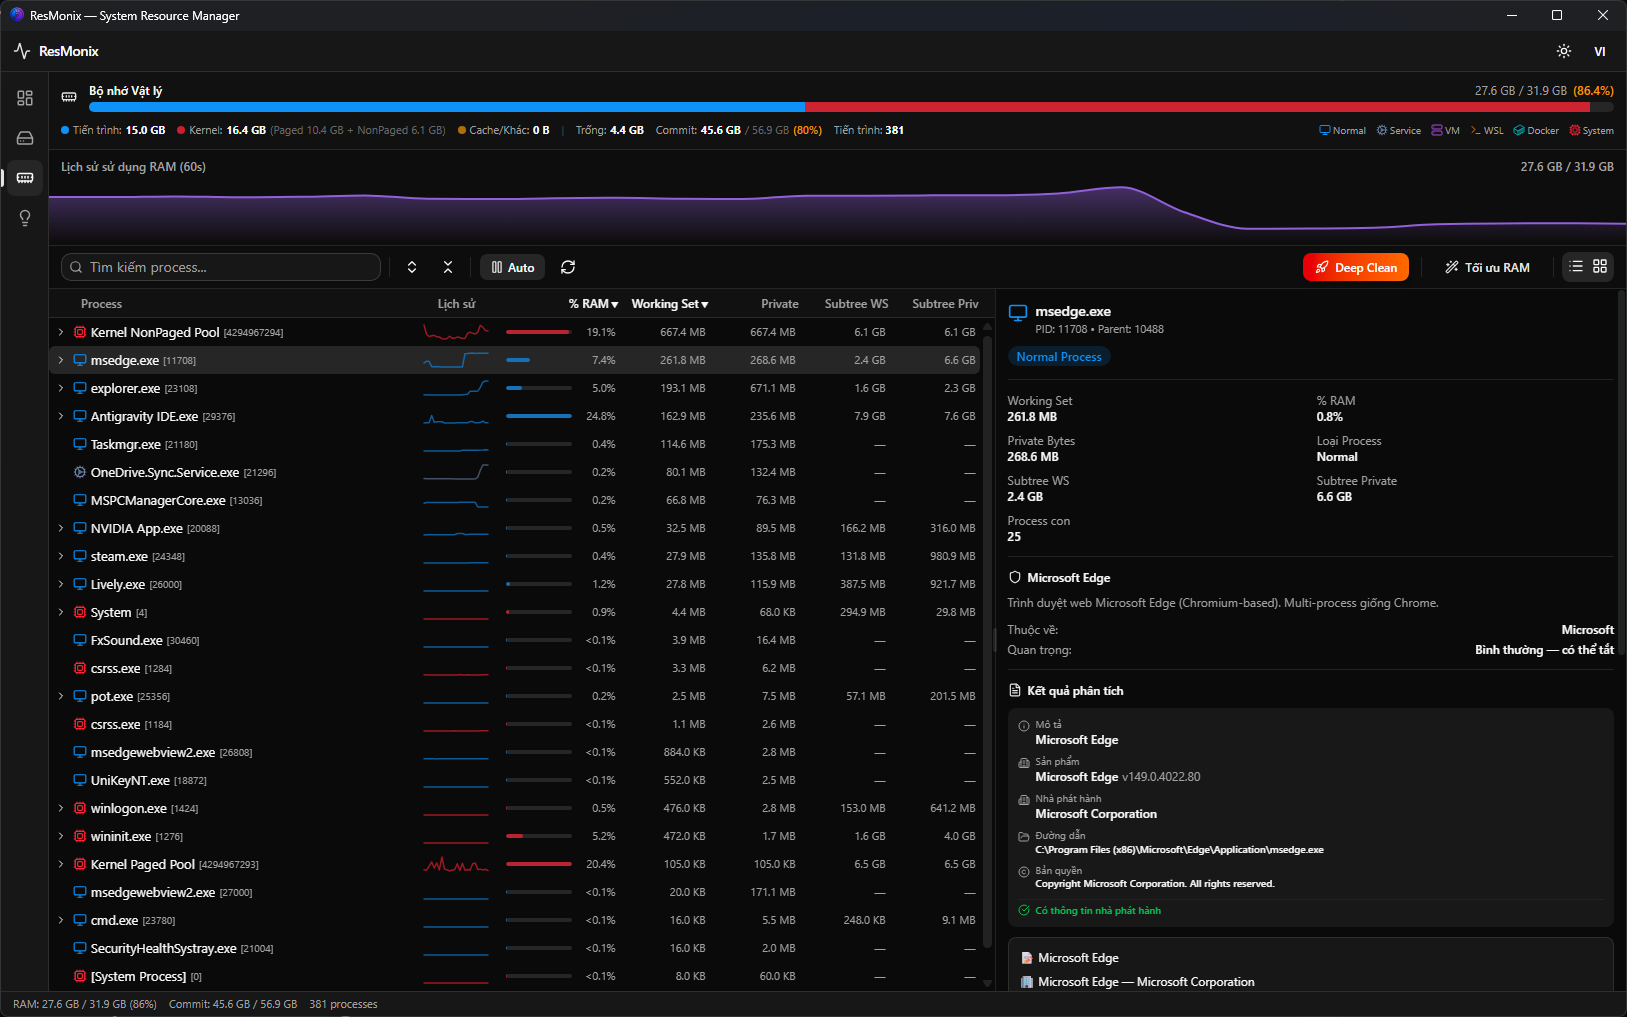
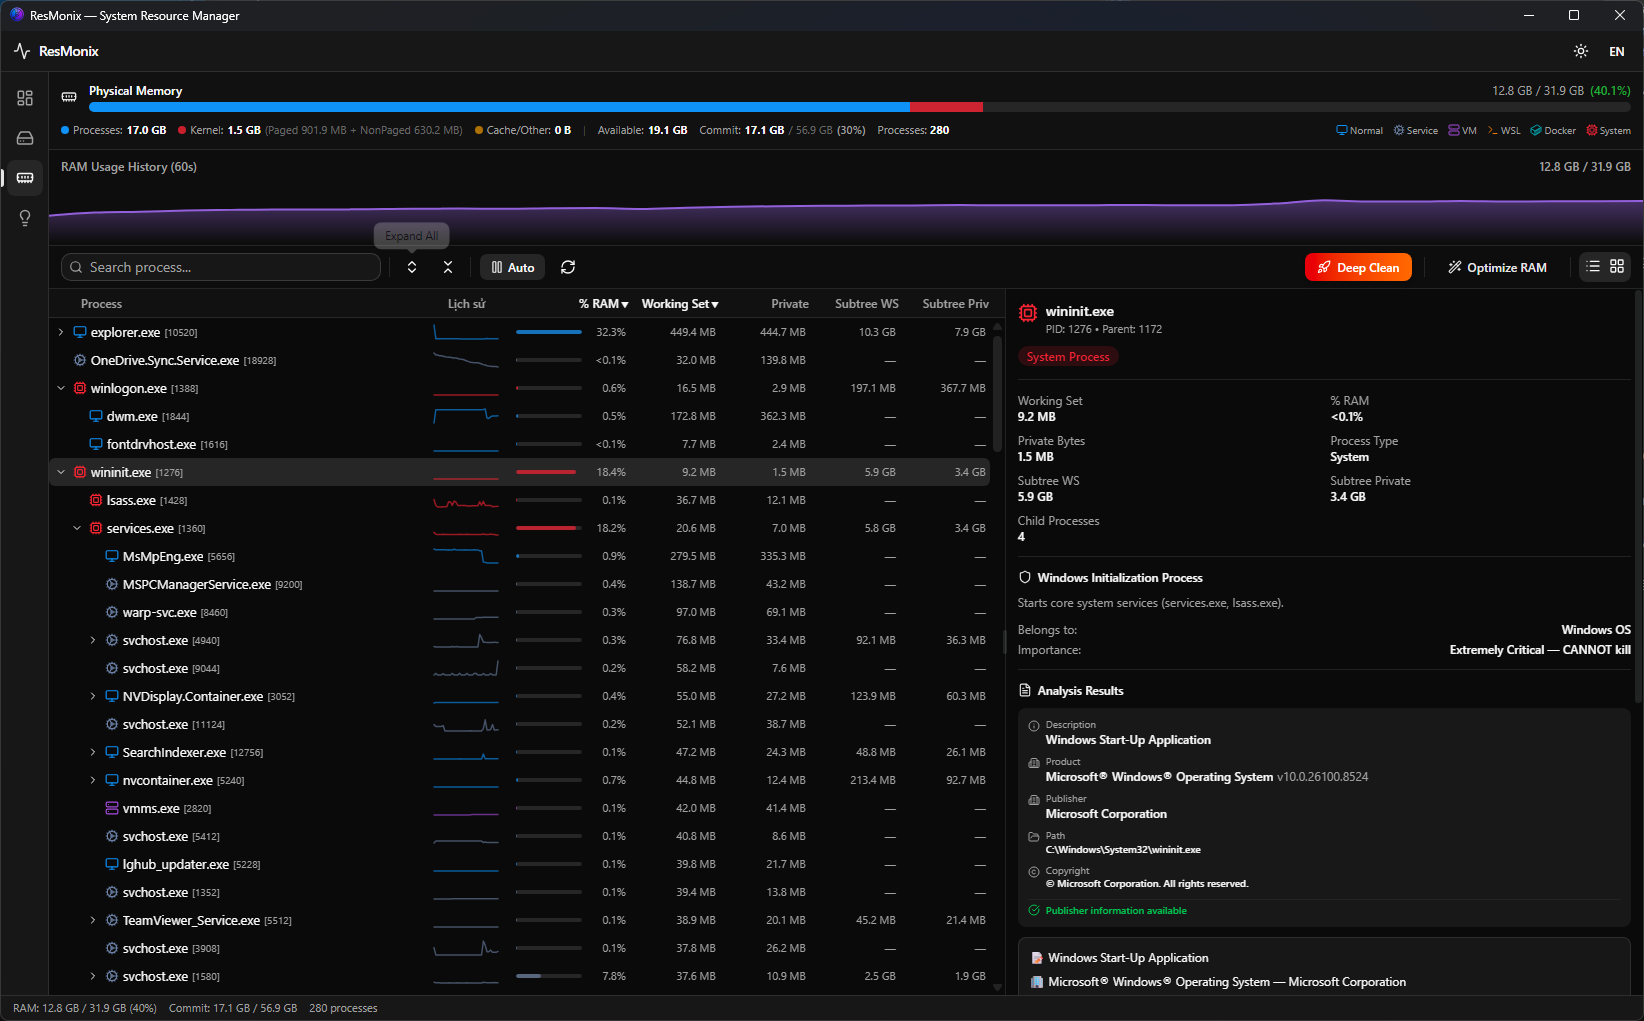
docs: add application screenshots to a gallery table in README

diff --git a/README.md b/README.md
@@ -8,7 +8,11 @@
 
 **ResMonix** is a modern, lightweight, and high-performance **Disk Space Analyzer** and **System Resource Manager** for desktop platforms. Built with React + TypeScript on the frontend and Rust on the backend, it offers a native-speed experience with a premium, sleek dark-themed interface.
 
-![Memory Manager Screenshot](images/memory.png)
+### App Gallery
+
+| Memory Manager | Disk Space Analyzer | Memory Treemap |
+| :---: | :---: | :---: |
+| ![Memory Manager](images/memory.png) | ![Disk Space Analyzer](images/disk.png) | ![Memory Treemap](images/memory-treemap.png) |
 
 ---
 